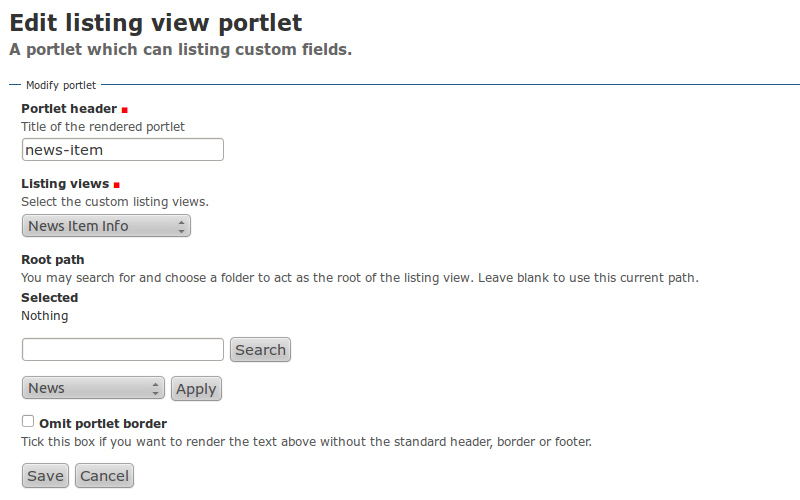
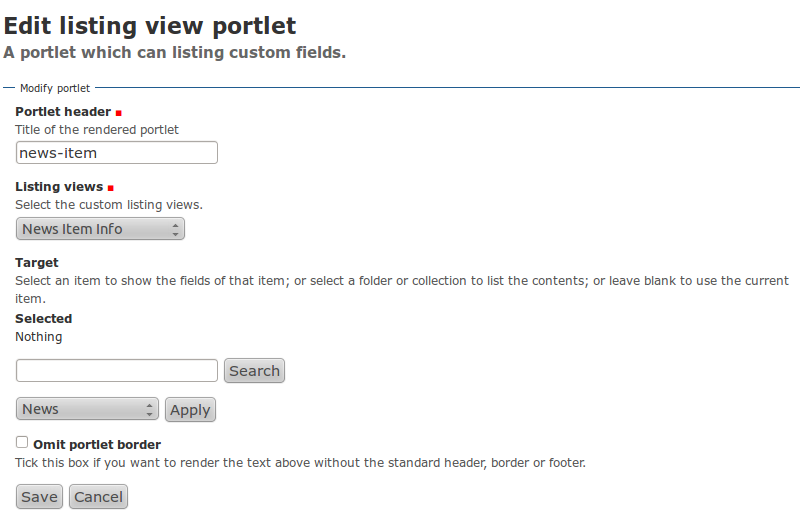
Update the target portlet to meaning title and description.

diff --git a/src/collective/listingviews/browser/portlets/portlets.py b/src/collective/listingviews/browser/portlets/portlets.py
@@ -59,11 +59,11 @@ class IListingPortlet(IPortletDataProvider):
         required=True)
 
     root = schema.Choice(
-            title=_(u"label_listing_root_path", default=u"Root path"),
+            title=_(u"label_listing_root_path", default=u"Target"),
             description=_(u'help_listing_root',
-                          default=u"You may search for and choose a folder "
-                                    "to act as the root of the listing view. "
-                                    "Leave blank to use this current path."),
+                          default=u"Select an item to show the fields of that item; or "
+                                    "select a folder or collection to list the contents; or "
+                                    "leave blank to use the current item."),
             required=False,
             source=SearchableTextSourceBinder({},
                                               default_query='path:'))

diff --git a/README.rst b/README.rst
@@ -160,7 +160,7 @@ Next you'd like to use this same publication date on your news item itself.
 5. Add a ``Listing Portlet`` portlet to the left side using ``Manage porlets``.
 6. Enter ``news-item`` as the Portlet header.
 . Select ``News Item Info`` as the ``Listing views``.
-7. Left it black for the ``Root path``, then click ``Save``.
+7. Left it black for the ``Target``, then click ``Save``.
 
 .. image:: https://github.com/collective/collective.listingviews/raw/master/docs/listing-portlet-setting.png
 
